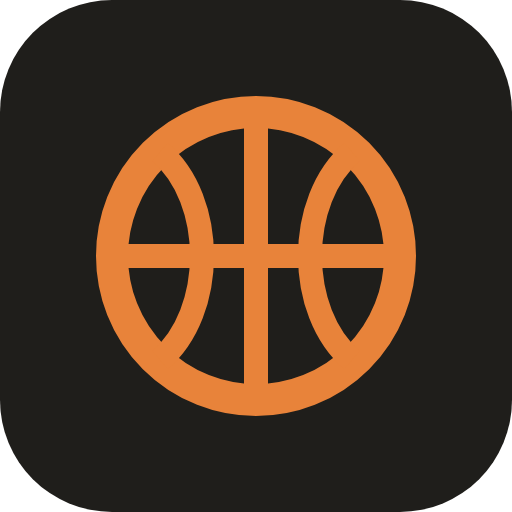
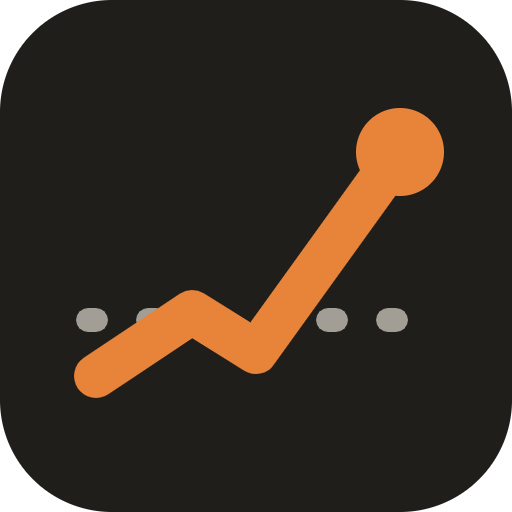
Novo ime aplikacije: Edgeline
- Naziv na kartici pregledača, telefonu, prečici i u uputstvu
- Nova ikonica: linija koja prelazi granicu
- Na samoj stranici naslov ostaje EuroLeague

Changed region(s): [[0.125, 0.1875, 0.875, 0.8125]]

diff --git a/index.html b/index.html
@@ -1,6 +1,6 @@
 <!doctype html>
 <html lang="sr"><head><meta charset="utf-8"><meta name="viewport" content="width=device-width,initial-scale=1">
-<title>Evroliga</title>
+<title>Edgeline</title>
 <meta name="theme-color" content="#1f1e1b"><link rel="manifest" href="manifest.webmanifest"><link rel="icon" href="ikona.svg">
 <link rel="apple-touch-icon" href="ikona-192.png"><meta name="apple-mobile-web-app-capable" content="yes">
 <style>:root{--font-anthropic-sans:system-ui,-apple-system,"Segoe UI",Roboto,sans-serif;--font-anthropic-serif:Georgia,"Times New Roman",serif;

diff --git a/README.md b/README.md
@@ -1,4 +1,6 @@
-# Evroliga – analiza igrača za Maxbet
+# Edgeline
+
+Analiza sportskih opklada na igrače. Trenutno pokriva Evroligu i Maxbet.
 
 Sistem koji za svako kolo Evrolige procenjuje poene, skokove i asistencije igrača, poredi ih sa Maxbet granicama
 i kvotama pet drugih kladionica i pravi preporuke, tikete i predloge uloga. Rezultati se prate posle svakog dana,
@@ -52,7 +54,7 @@ na 10 min u poslednjih 90 min pred meč, na 30 min na dan meča, na 2 h do 36 h 
 - Prva postavka: `npm install` u `sistem/servis/`, pa `powershell -ExecutionPolicy Bypass -File instaliraj_zadatak.ps1`.
   Ako `npm install` pukne na `X509_STORE_add_cert`, pokrenuti ga bez promenljive `NODE_USE_SYSTEM_CA`.
 - Ručno: `node kvote_servis.js --odmah`, `--samo=mb,sb`, `--stanje`.
-- Aplikacija: prečica `Evroliga` na desktopu (`napravi_precicu.ps1`) diže `app_server.js` na http://localhost:8765. Dugme **Osveži** povlači kvote, povrede i sudije, pokreće `osvezi.py` i šalje podatke (bez koda) na GitHub; postoji samo lokalno. Dnevnik: `prikupljeno/app.log`.
+- Aplikacija: prečica `Edgeline` na desktopu (`napravi_precicu.ps1`) diže `app_server.js` na http://localhost:8765. Dugme **Osveži** povlači kvote, povrede i sudije, pokreće `osvezi.py` i šalje podatke (bez koda) na GitHub; postoji samo lokalno. Dnevnik: `prikupljeno/app.log`.
 - Povrede (`povrede_servis.js`): zvaničan izveštaj kola, Rotowire lista povreda i sudije iz API-ja idu u `statusi.json` i `sudije_kolo.json`. Prednost: klub potvrdio izveštaj, pa izveštaj bez potvrde, pa Rotowire; ručno upisani statusi ostaju. Startne petorke nemaju izvor pre utakmice, pa se procenjuju iz istorije. Provera bez upisa: `node povrede_servis.js --proba=9`.
 - Automatika (`tik.js`, Windows zadatak na 10 min): danima sa utakmicama, od 8:00 do 1:30 sledećeg jutra, jednom na sat radi ceo tok kao dugme Osveži. Ostalih taktova samo snima kvote i upisuje rezultate. Kad se kolo završi (12 h posle poslednje utakmice), sam pokreće `pripremi_kolo.py` za sledeće. Poslednji ishod: `prikupljeno/auto.json`, dnevnik: `prikupljeno/app.log`.
 - Rezultati: isti zadatak na svakih 10 min pokreće `rezultati_servis.js`. Od 90 min posle početka proverava zvanični API i, kad je utakmica
